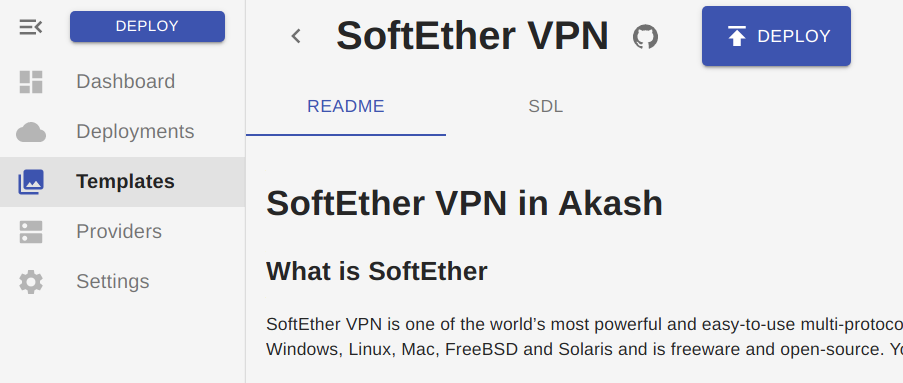
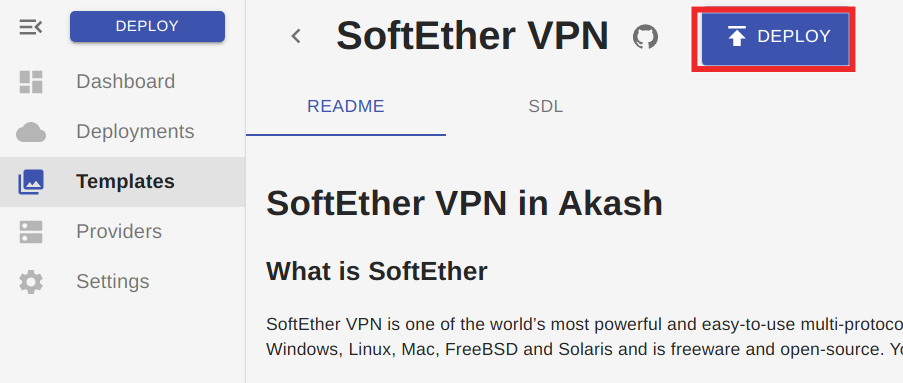
added annotations, descriptions

Changed region(s): [[0.7442, 0.0, 0.9612, 0.201]]

diff --git a/_posts/2022-11-29-vpn-on-akash.md b/_posts/2022-11-29-vpn-on-akash.md
@@ -7,13 +7,27 @@ categories: AKASH VPN
 
 # VPN on Akash
 
-VPN
+Assuming you:
+
+* have ![reasons](https://decrypt.co/115486/infura-collect-metamask-users-ip-ethereum-addresses-after-privacy-policy-update) why you'd like a VPN
+* installed ![Cloudmos Cloud Deploy for Akash](https://cloudmos.io/cloud-deploy)
+* funded your Cloudmos wallet with ![acquired Akash $AKT tokens](https://akash.network/token)
+
+Here's how to spin up a VPN:
+
+1. Select `Templates` and search for `VPN`
 
 ![Search for VPN](/assets/1_akash_vpn/1_cloudmos_softether_template.png)
 
+2. Click `Deploy`
+
 ![Select Deploy](/assets/1_akash_vpn/2_select_deploy.png)
 
+3. Click `Create Deployment`
+
 ![Create Deployment](/assets/1_akash_vpn/3_create_deployment.png)
+
+4. Confirm 5 AKT deposit
 
 ![Click Deposit](/assets/1_akash_vpn/4_click_deposit.png)
 
